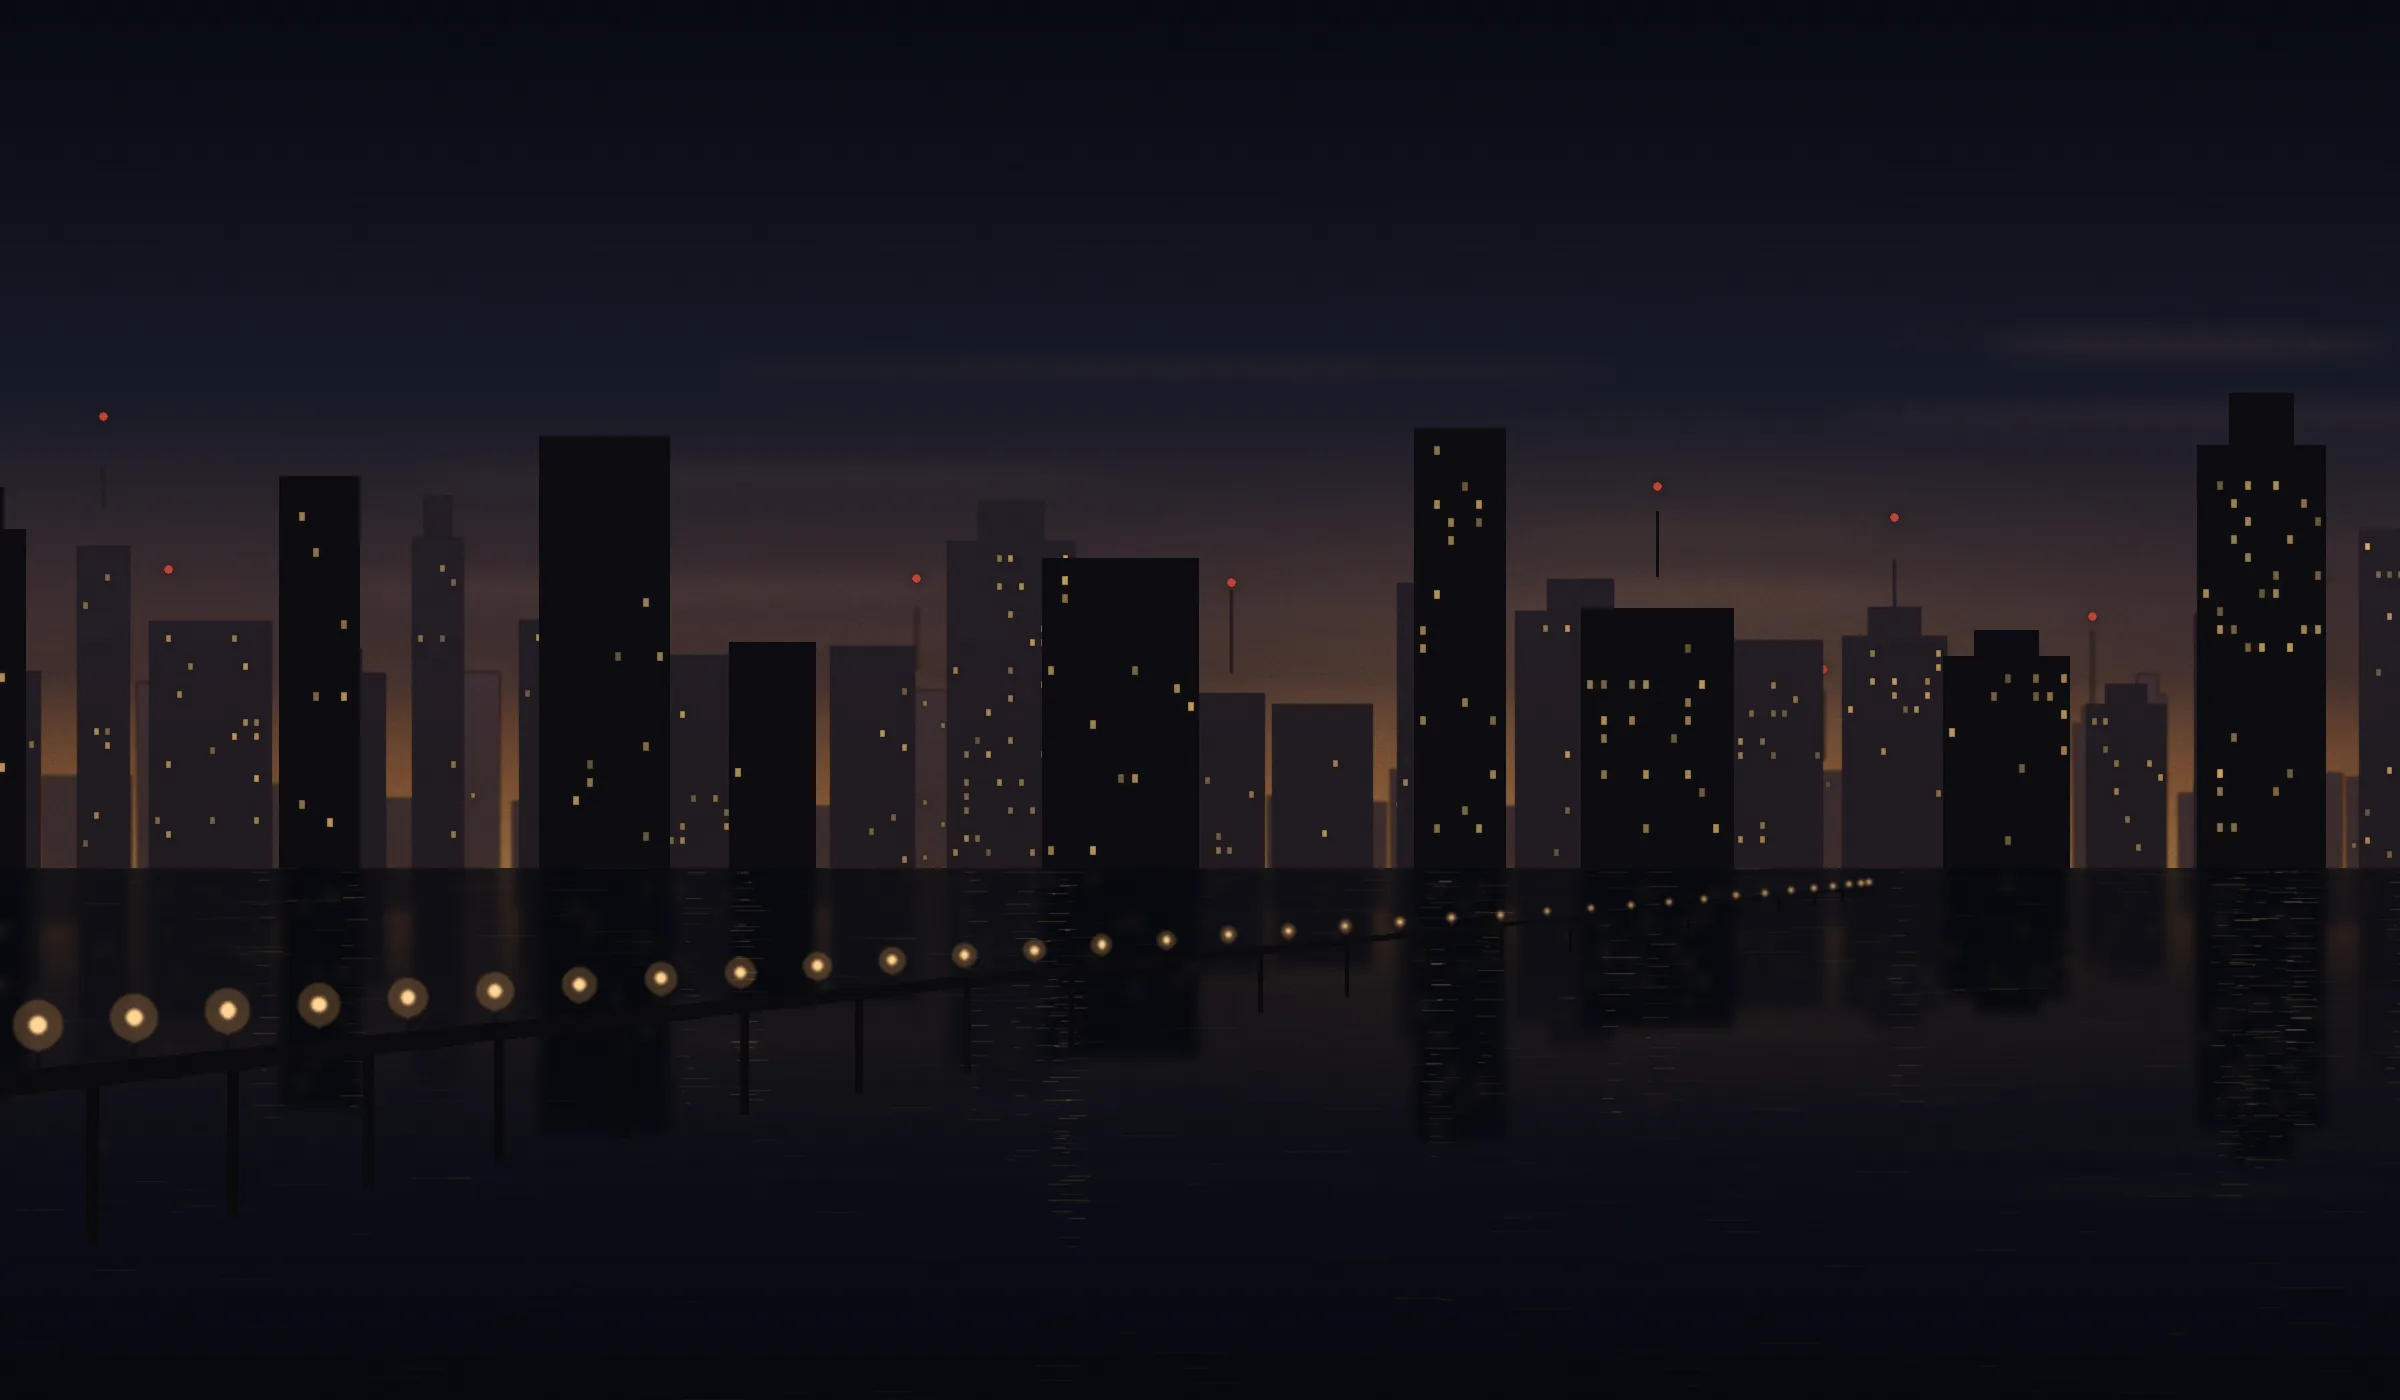
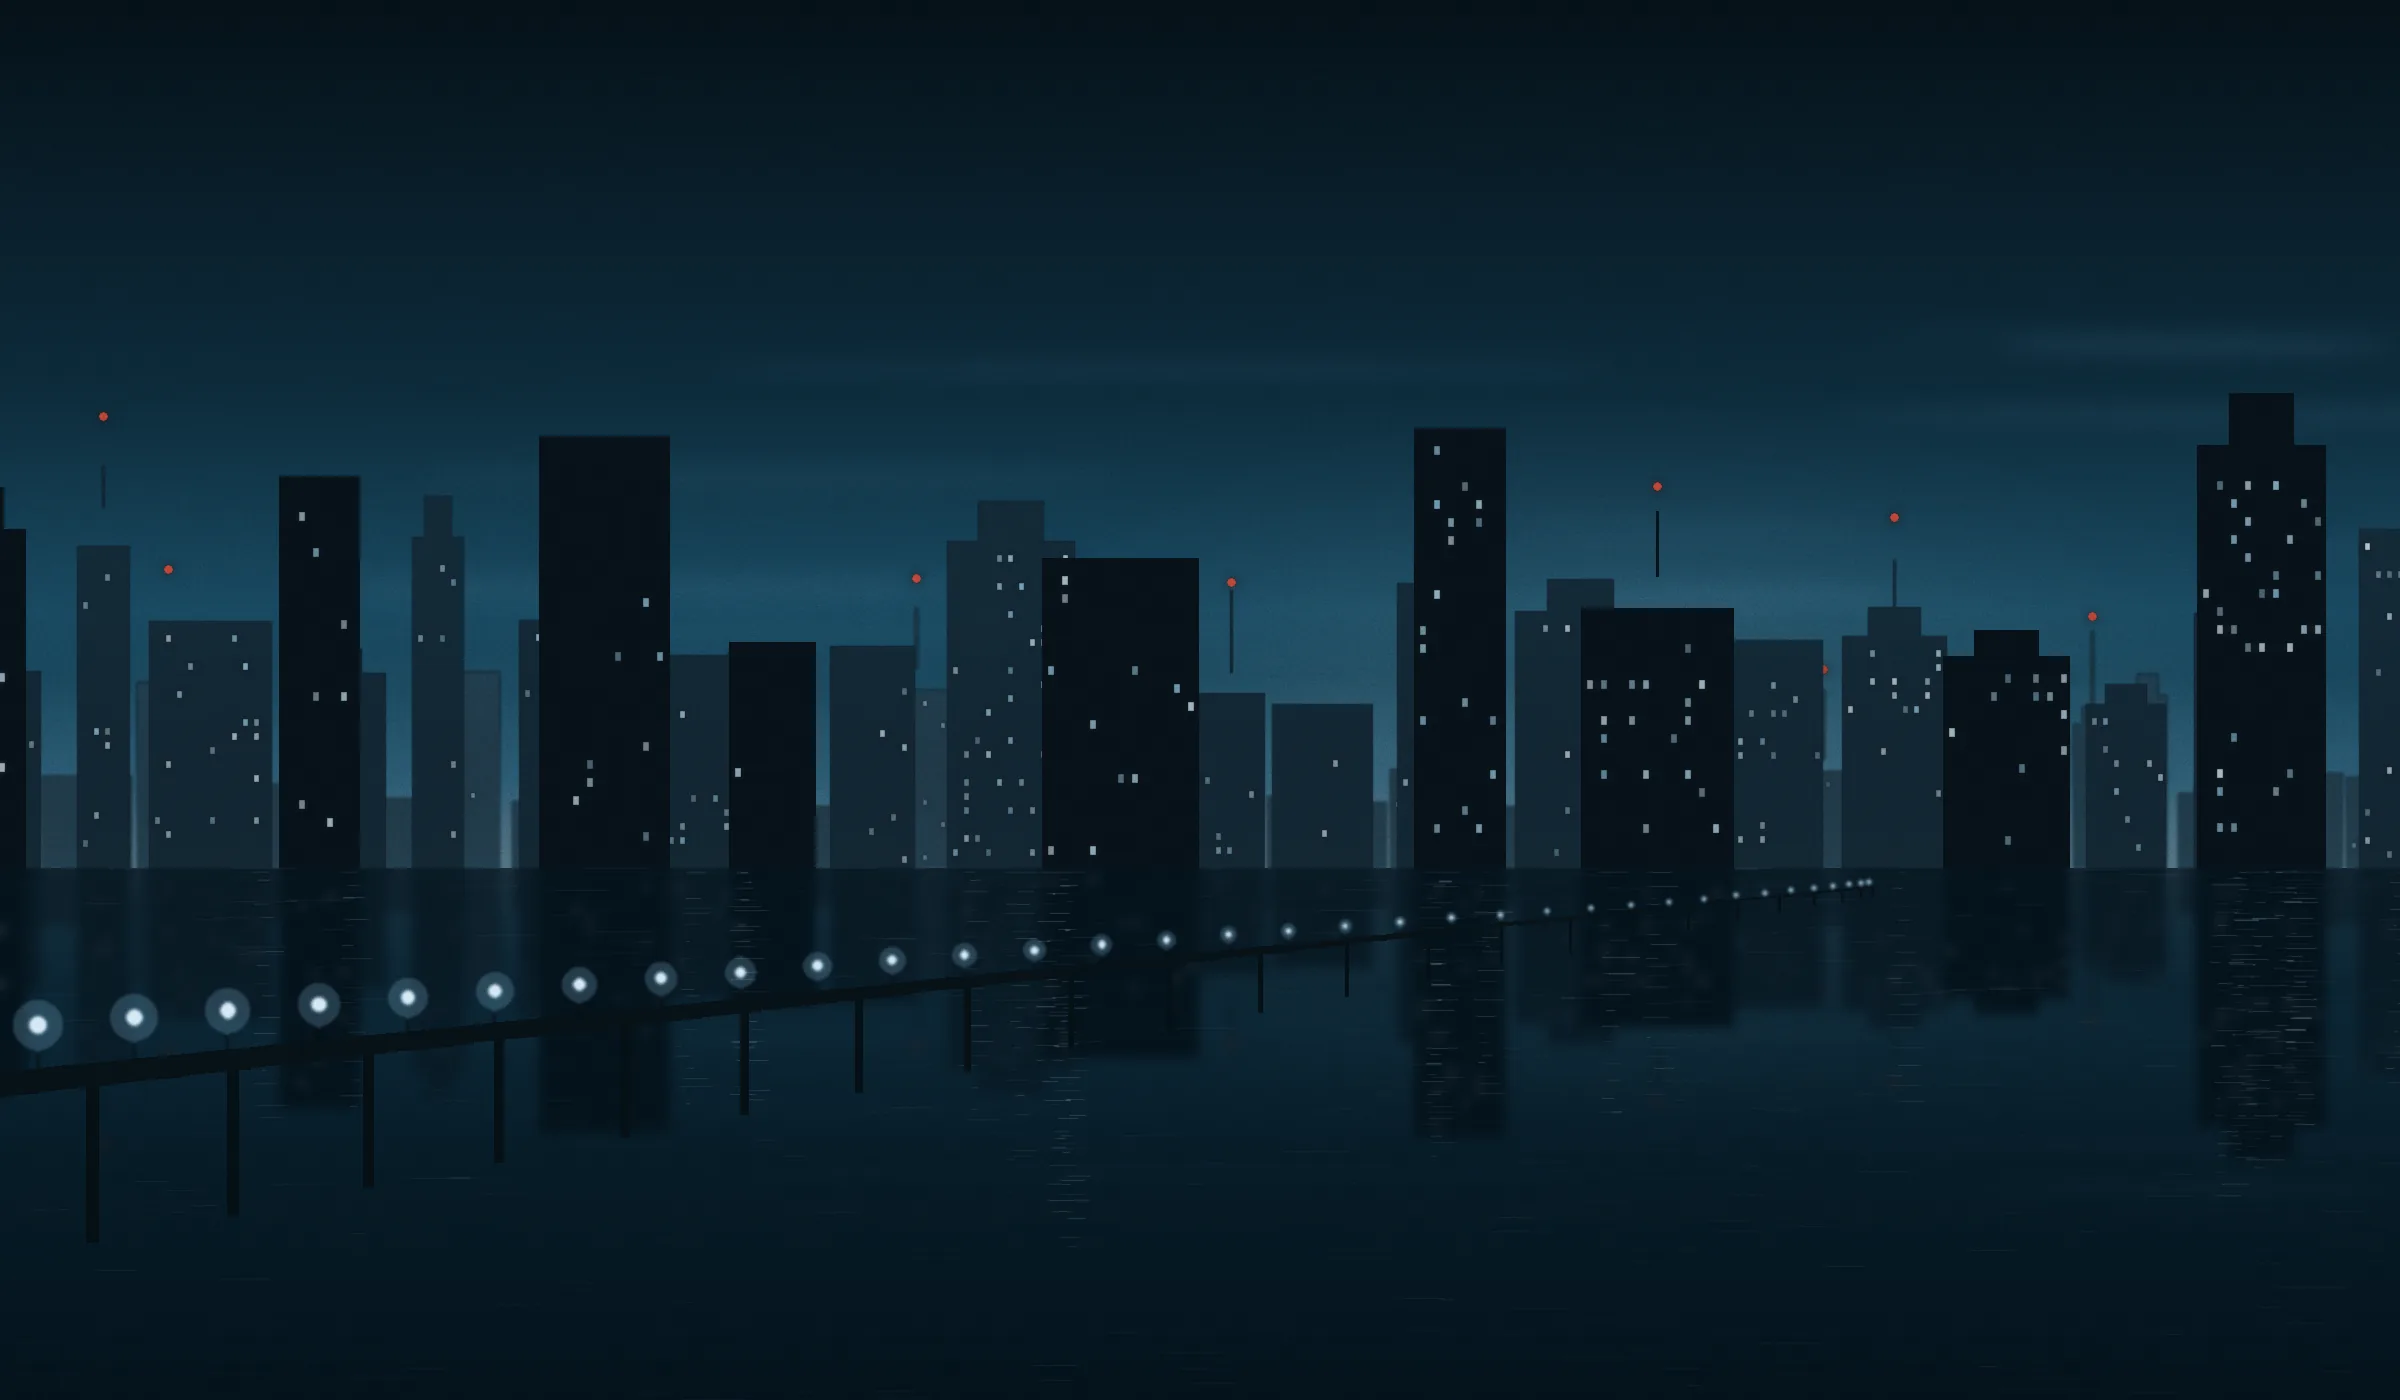
feat(art): repaint the hero skyline at blue hour in deep blue-teal and steel

Changed region(s): [[0.0, 0.2457, 0.5938, 0.7986], [0.625, 0.215, 1.0, 0.7986], [0.4375, 0.7679, 0.4688, 0.7986]]

diff --git a/scripts/art/lagos_dusk.py b/scripts/art/lagos_dusk.py
@@ -22,11 +22,11 @@ def sky():
     img = vertical_gradient(
         (W, HORIZON),
         [
-            (0.0, (8, 10, 18)),
-            (0.45, (24, 26, 40)),
-            (0.78, (74, 54, 52)),
-            (0.9, (162, 104, 66)),
-            (1.0, (226, 160, 96)),
+            (0.0, (6, 18, 26)),
+            (0.45, (14, 44, 60)),
+            (0.78, (30, 84, 110)),
+            (0.9, (60, 130, 166)),
+            (1.0, (150, 200, 226)),
         ],
     )
     # Soft sun glow sitting just under the horizon, right of centre.
@@ -46,7 +46,7 @@ def sky():
         x = rnd.randint(-200, W)
         c.ellipse([x, y, x + rnd.randint(300, 900), y + rnd.randint(8, 22)], fill=rnd.randint(30, 70))
     clouds = clouds.filter(ImageFilter.GaussianBlur(10))
-    img = Image.composite(Image.new("RGB", img.size, (120, 84, 70)), img, clouds)
+    img = Image.composite(Image.new("RGB", img.size, (64, 112, 140)), img, clouds)
     return img
 
 
@@ -99,17 +99,17 @@ def bridge(img):
         ax, ay = x0 + (x1 - x0) * e0, y0 + (y1 - y0) * e0
         bx, by = x0 + (x1 - x0) * e1, y0 + (y1 - y0) * e1
         thick = max(2, int(26 * (1 - e0)))
-        d.polygon([(ax, ay), (bx, by), (bx, by + thick), (ax, ay + thick)], fill=(12, 11, 14))
+        d.polygon([(ax, ay), (bx, by), (bx, by + thick), (ax, ay + thick)], fill=(8, 18, 24))
         if i % 6 == 0:
             pier_h = int(160 * (1 - e0)) + 8
             pw = max(2, int(14 * (1 - e0)))
-            d.rectangle([ax, ay + thick, ax + pw, ay + thick + pier_h], fill=(10, 10, 12))
+            d.rectangle([ax, ay + thick, ax + pw, ay + thick + pier_h], fill=(6, 16, 22))
         if i % 4 == 0:
             size = max(1.5, 9 * (1 - e0))
             post = max(4, int(46 * (1 - e0)))
-            g.line([(ax, ay), (ax, ay - post)], fill=(16, 15, 17, 255), width=max(1, int(3 * (1 - e0))))
-            g.ellipse([ax - size * 3, ay - post - size * 3, ax + size * 3, ay - post + size * 3], fill=(255, 180, 100, 60))
-            g.ellipse([ax - size, ay - post - size, ax + size, ay - post + size], fill=(255, 214, 150, 255))
+            g.line([(ax, ay), (ax, ay - post)], fill=(10, 20, 26, 255), width=max(1, int(3 * (1 - e0))))
+            g.ellipse([ax - size * 3, ay - post - size * 3, ax + size * 3, ay - post + size * 3], fill=(140, 195, 224, 60))
+            g.ellipse([ax - size, ay - post - size, ax + size, ay - post + size], fill=(214, 233, 244, 255))
     img.alpha_composite(glow.filter(ImageFilter.GaussianBlur(1.5)))
 
 
@@ -119,9 +119,9 @@ def main():
 
     # Depth layers, far to near. Far layers are paler, hazier and slightly blurred.
     layers = [
-        dict(n=70, hr=(60, 200), wr=(30, 90), col=(70, 54, 60, 255), wc=0.04, win=(3, 4, 9, 11), gap=(0, 18), blur=1.6, haze=120),
-        dict(n=48, hr=(120, 340), wr=(50, 130), col=(36, 30, 38, 255), wc=0.10, win=(4, 6, 11, 14), gap=(6, 60), blur=0.6, haze=55),
-        dict(n=18, hr=(180, 470), wr=(70, 160), col=(12, 12, 16, 255), wc=0.14, win=(5, 8, 14, 18), gap=(60, 260), blur=0, haze=0),
+        dict(n=70, hr=(60, 200), wr=(30, 90), col=(40, 72, 92, 255), wc=0.04, win=(3, 4, 9, 11), gap=(0, 18), blur=1.6, haze=120),
+        dict(n=48, hr=(120, 340), wr=(50, 130), col=(20, 42, 56, 255), wc=0.10, win=(4, 6, 11, 14), gap=(6, 60), blur=0.6, haze=55),
+        dict(n=18, hr=(180, 470), wr=(70, 160), col=(8, 18, 26, 255), wc=0.14, win=(5, 8, 14, 18), gap=(60, 260), blur=0, haze=0),
     ]
     all_lights = Image.new("RGBA", (W, H), (0, 0, 0, 0))
     for L in layers:
@@ -133,17 +133,17 @@ def main():
         canvas.alpha_composite(lights.filter(ImageFilter.GaussianBlur(5)))
         all_lights.alpha_composite(lights)
         if L["haze"]:
-            haze = vertical_gradient((W, HORIZON), [(0.0, (0, 0, 0)), (0.7, (0, 0, 0)), (1.0, (150, 104, 76))]).convert("L")
+            haze = vertical_gradient((W, HORIZON), [(0.0, (0, 0, 0)), (0.7, (0, 0, 0)), (1.0, (150, 150, 150))]).convert("L")
             haze = haze.point(lambda v: int(v / 150 * L["haze"]))
             hz = Image.new("RGBA", (W, H), (0, 0, 0, 0))
-            hz.paste(Image.new("RGBA", (W, HORIZON), (170, 118, 84, 255)), (0, 0), haze)
+            hz.paste(Image.new("RGBA", (W, HORIZON), (90, 150, 182, 255)), (0, 0), haze)
             canvas.alpha_composite(hz)
 
     # Water: mirrored, blurred, darkened copy of the scene with gold ripples.
     above = canvas.crop((0, 0, W, HORIZON))
     mirror = above.transpose(Image.FLIP_TOP_BOTTOM).resize((W, H - HORIZON))
     mirror = mirror.filter(ImageFilter.GaussianBlur(5))
-    dark = Image.new("RGBA", mirror.size, (6, 8, 14, 170))
+    dark = Image.new("RGBA", mirror.size, (4, 20, 30, 170))
     mirror.alpha_composite(dark)
     trails = Image.new("RGBA", mirror.size, (0, 0, 0, 0))
     t = ImageDraw.Draw(trails)
